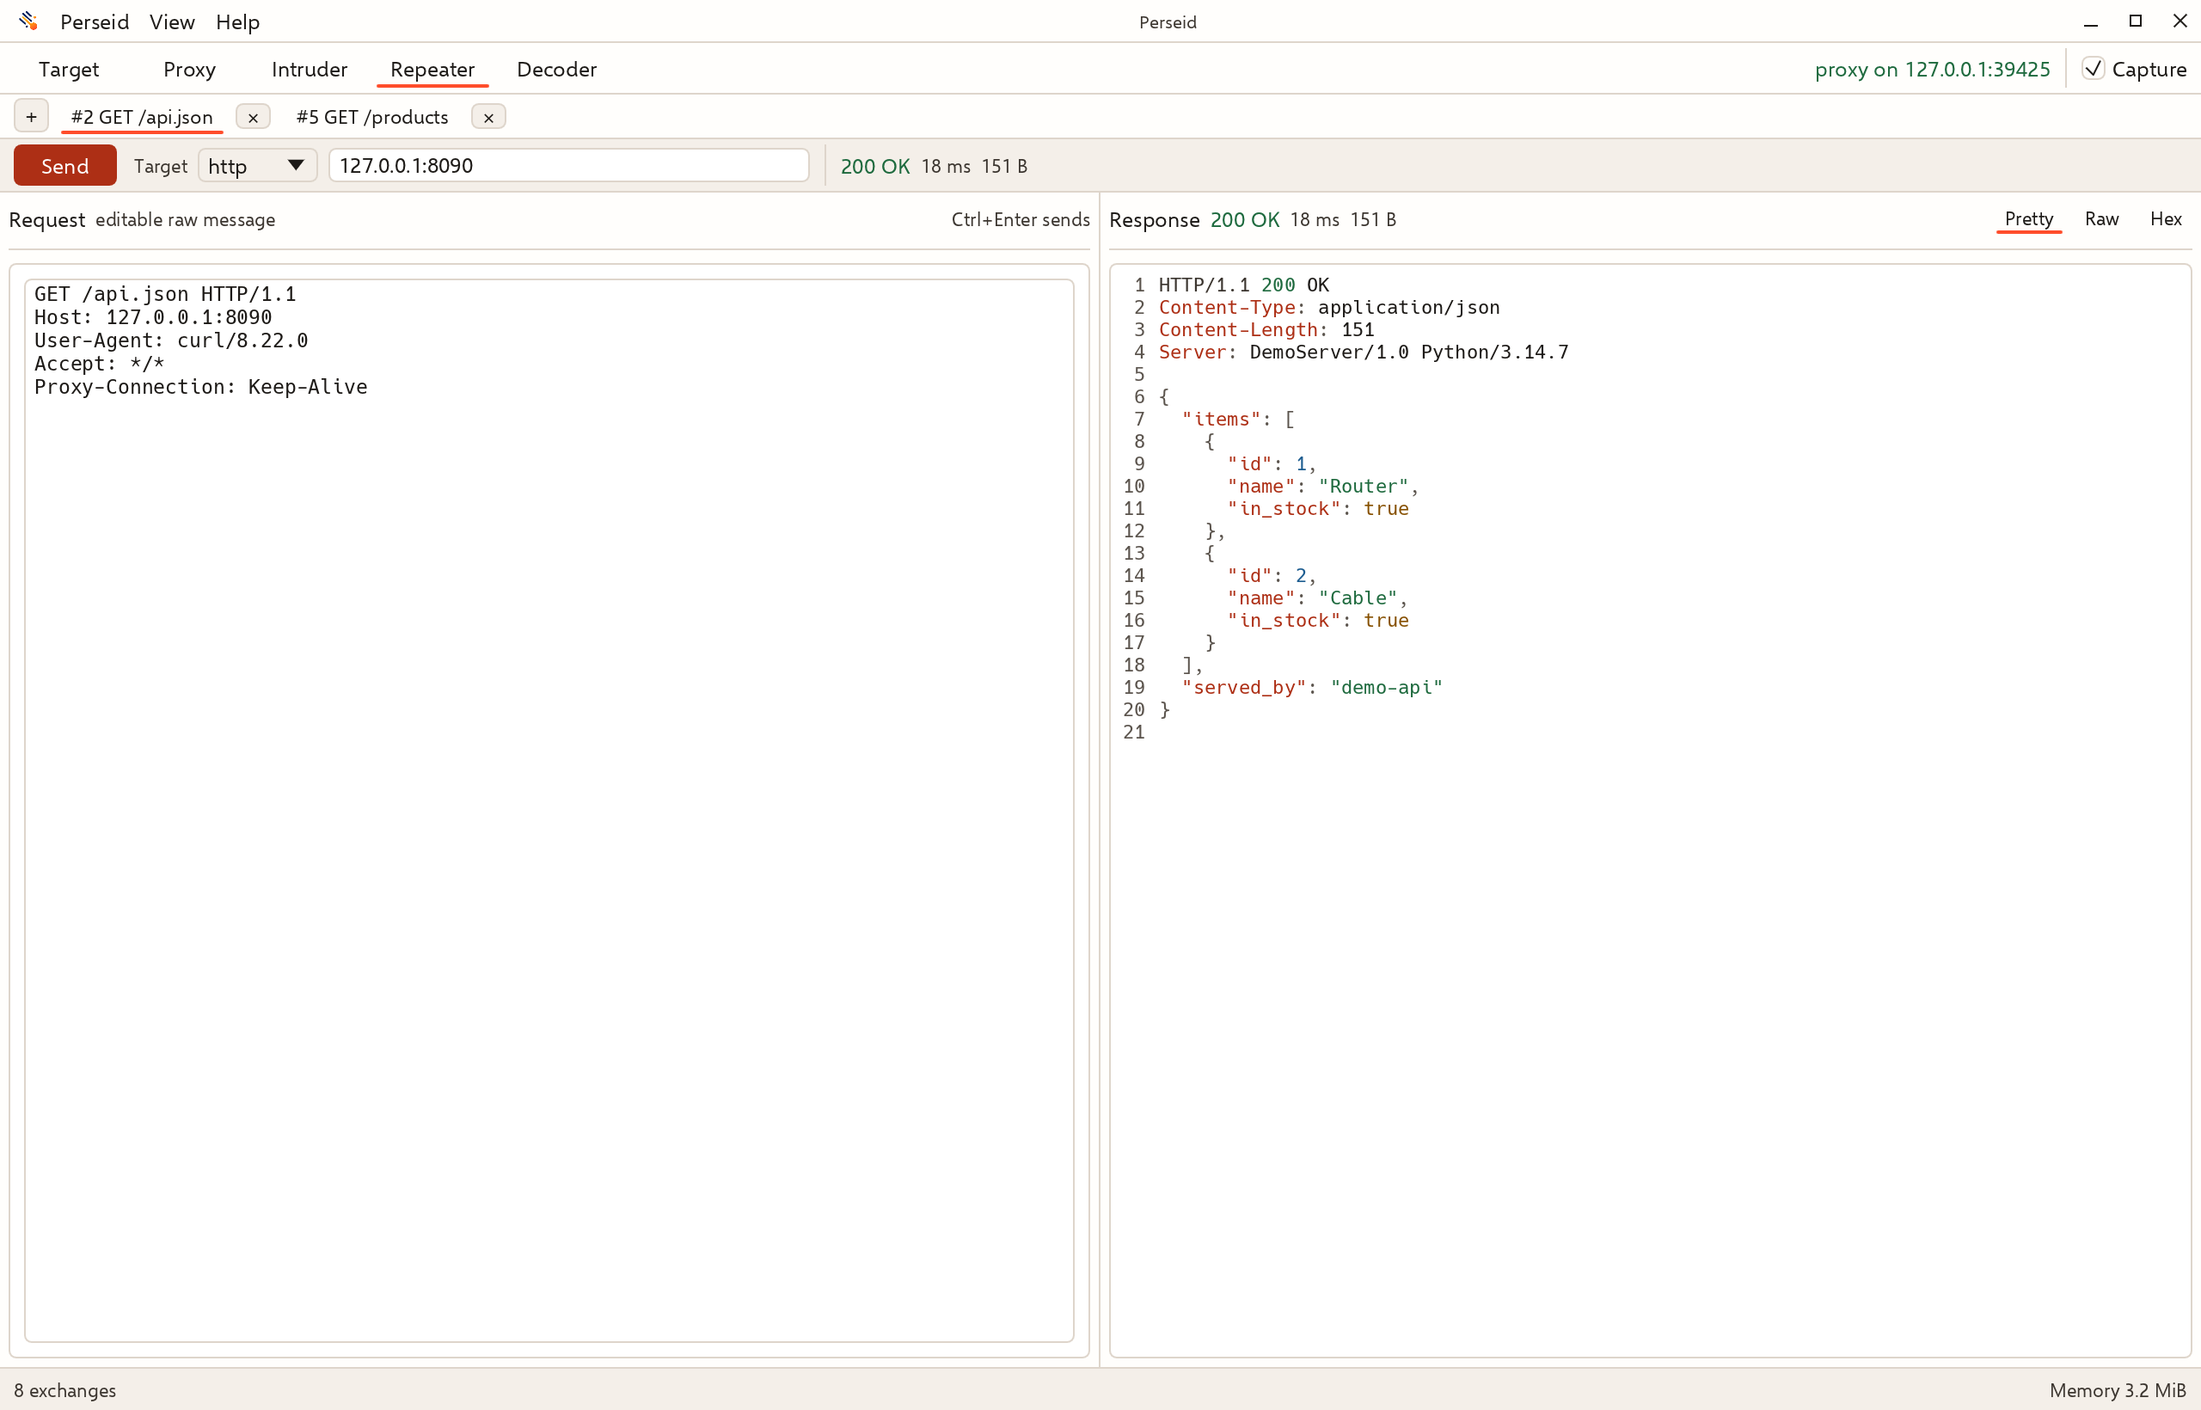
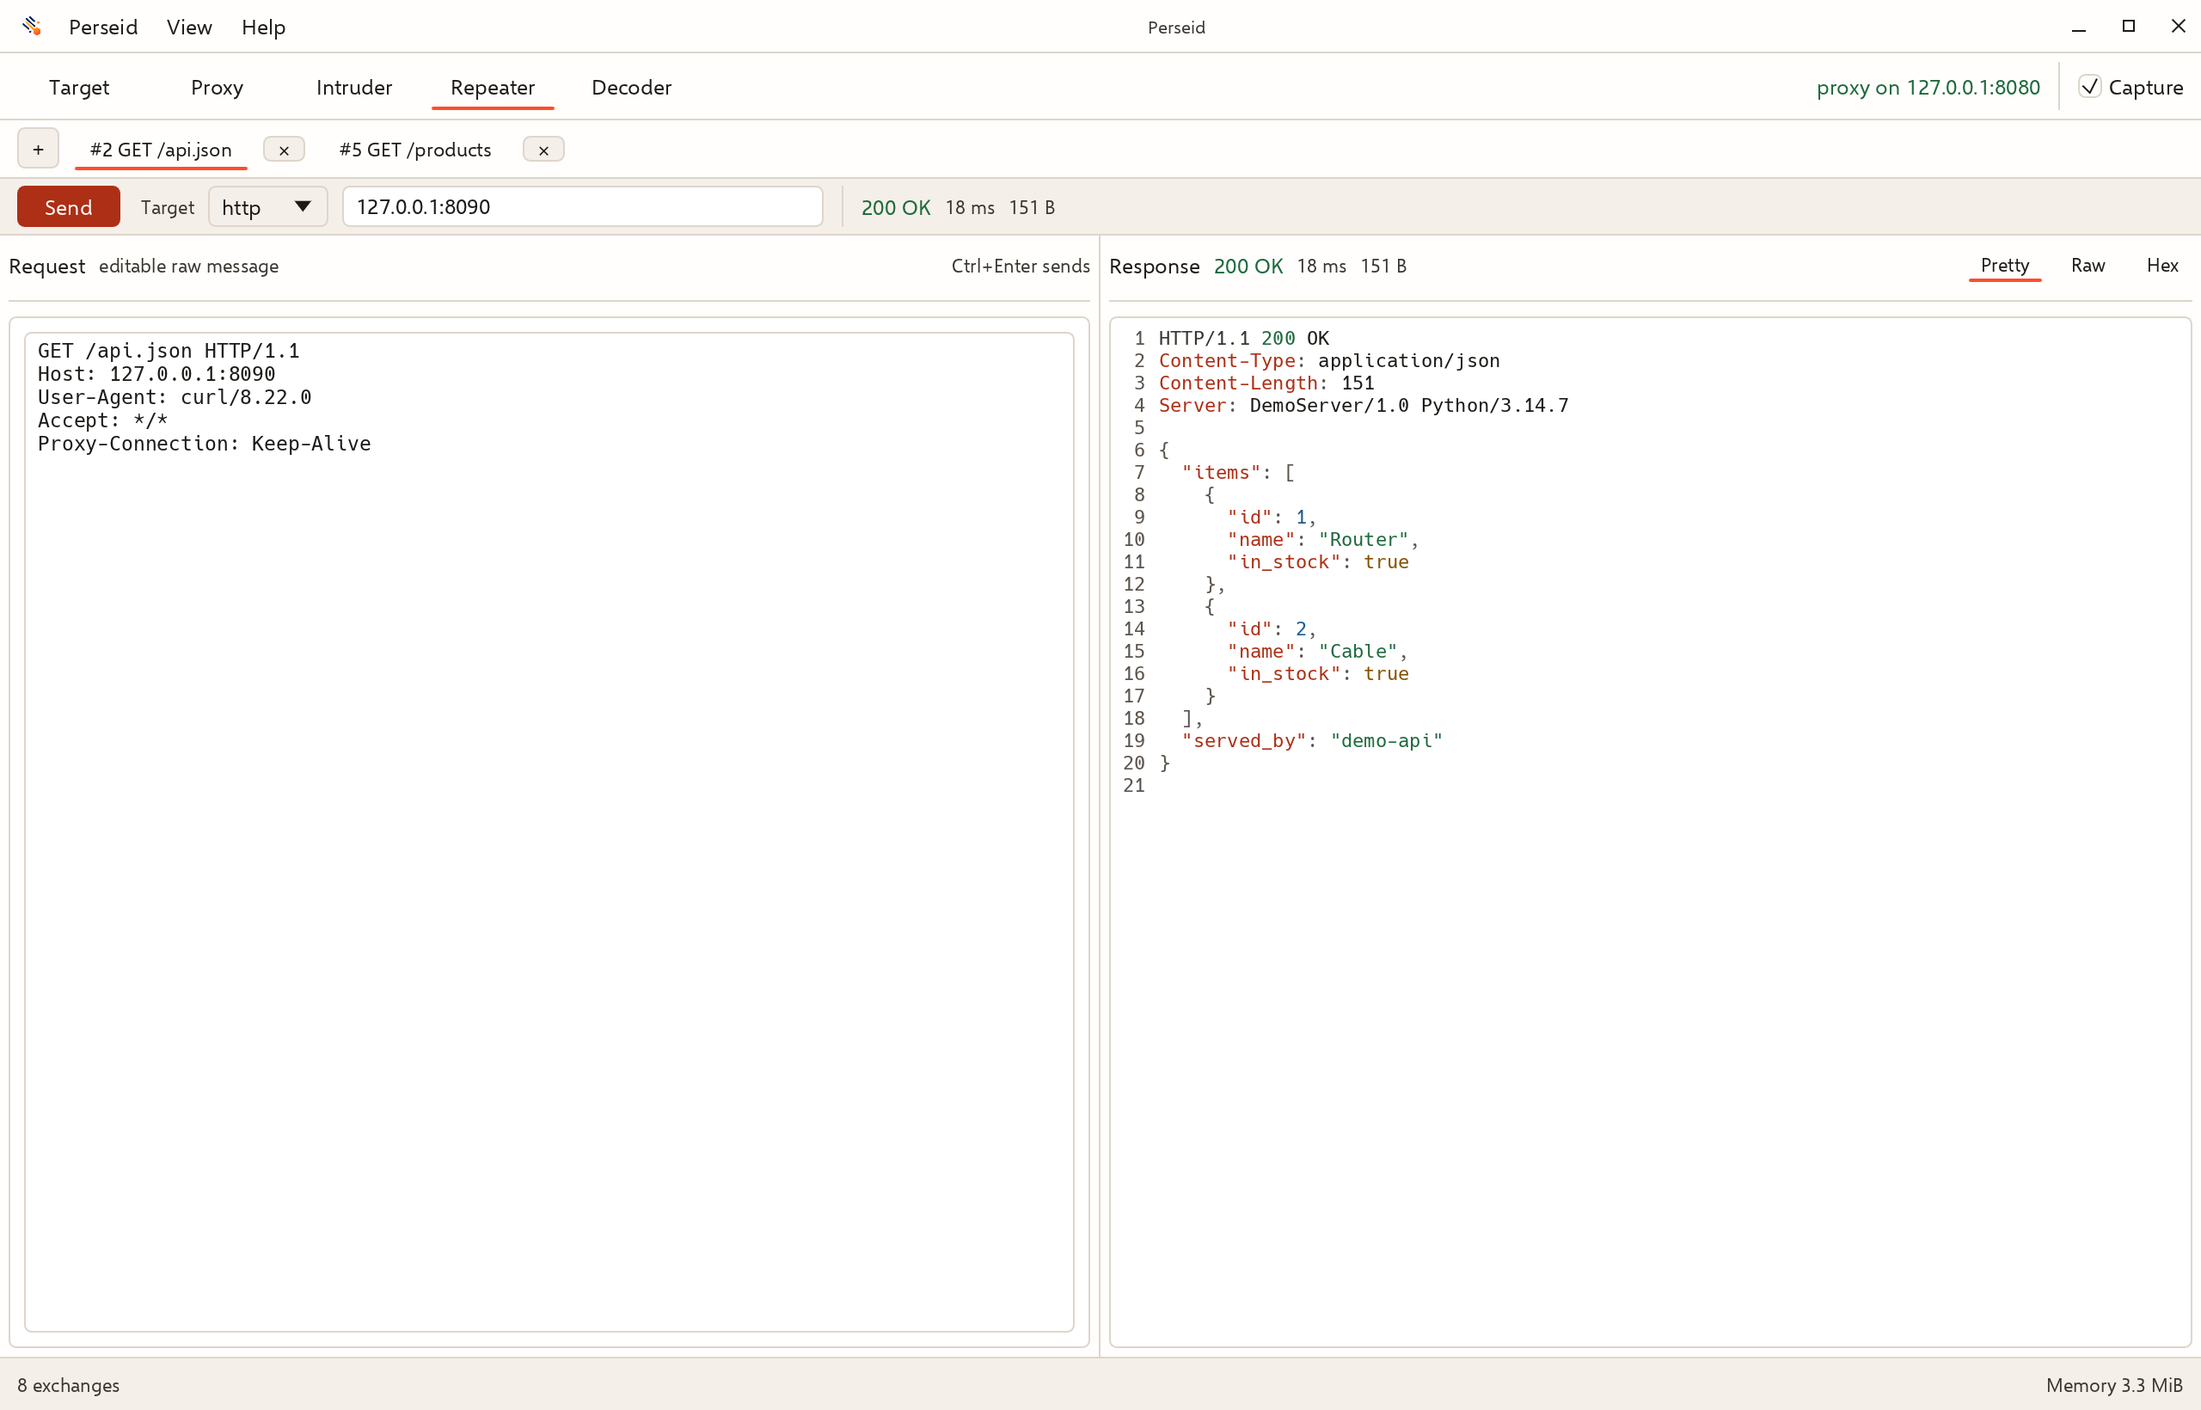
Give the UI more breathing room around controls
- Increase global button padding, control spacing, and interaction height
- Widen and heighten the main, section, and message tabs
- Add margins to toolbars, page cards, and table frames, and raise table rows
- Split Decoder panel controls so Copy and view options never clip
- Regenerate the documentation screenshots for the roomier chrome

diff --git a/crates/perseid/src/app/decoder.rs b/crates/perseid/src/app/decoder.rs
@@ -104,7 +104,7 @@ impl DecoderState {
             .frame(
                 egui::Frame::NONE
                     .fill(theme::SURFACE)
-                    .inner_margin(egui::Margin::symmetric(8, 2)),
+                    .inner_margin(egui::Margin::symmetric(10, 4)),
             )
             .show(ui, |ui| {
                 ui.horizontal(|ui| {
@@ -541,21 +541,13 @@ fn set_editor_selection(ctx: &egui::Context, editor_id: egui::Id, range: Option<
 
 fn draw_controls(ui: &mut egui::Ui, panel: &mut Panel, index: usize) -> Option<Action> {
     let mut action = None;
-    ui.spacing_mut().item_spacing = egui::vec2(6.0, 3.0);
-    ui.spacing_mut().button_padding = egui::vec2(4.0, 2.0);
-    ui.spacing_mut().interact_size.y = 22.0;
+    ui.spacing_mut().item_spacing = egui::vec2(8.0, 4.0);
+    ui.spacing_mut().button_padding = egui::vec2(6.0, 3.0);
+    ui.spacing_mut().interact_size.y = 24.0;
 
     let mut view_changed = false;
     ui.horizontal(|ui| {
         operation_chip(ui, panel.operation);
-        ui.add_space(4.0);
-        view_changed |= ui
-            .radio_value(&mut panel.view, ViewMode::Text, "Text")
-            .changed();
-        view_changed |= ui
-            .radio_value(&mut panel.view, ViewMode::Hex, "Hex")
-            .on_hover_text("Hex view is read-only; to enter bytes, decode ASCII hex in Text view")
-            .changed();
         ui.with_layout(Layout::right_to_left(Align::Center), |ui| {
             if ui
                 .small_button("Copy")
@@ -565,6 +557,15 @@ fn draw_controls(ui: &mut egui::Ui, panel: &mut Panel, index: usize) -> Option<A
                 ui.ctx().copy_text(panel.copy_value());
             }
         });
+    });
+    ui.horizontal(|ui| {
+        view_changed |= ui
+            .radio_value(&mut panel.view, ViewMode::Text, "Text")
+            .changed();
+        view_changed |= ui
+            .radio_value(&mut panel.view, ViewMode::Hex, "Hex")
+            .on_hover_text("Hex view is read-only; to enter bytes, decode ASCII hex in Text view")
+            .changed();
     });
     if view_changed {
         panel.selection = None;
@@ -672,7 +673,7 @@ fn codec_combo(
         .selected_text(title)
         .show_ui(ui, |ui| {
             ui.set_min_width(190.0);
-            ui.spacing_mut().item_spacing.y = 2.0;
+            ui.spacing_mut().item_spacing.y = 3.0;
             ui.spacing_mut().interact_size.y = 24.0;
             let menu_height = (ui.ctx().viewport_rect().height() * 0.5).clamp(180.0, 360.0);
             egui::ScrollArea::vertical()
@@ -707,7 +708,7 @@ fn hash_combo(
         .selected_text("Hash…")
         .show_ui(ui, |ui| {
             ui.set_min_width(210.0);
-            ui.spacing_mut().item_spacing.y = 2.0;
+            ui.spacing_mut().item_spacing.y = 3.0;
             ui.spacing_mut().interact_size.y = 24.0;
             let menu_height = (ui.ctx().viewport_rect().height() * 0.5).clamp(180.0, 360.0);
             egui::ScrollArea::vertical()
@@ -739,7 +740,7 @@ fn operation_chip(ui: &mut egui::Ui, operation: Option<engine::Transform>) {
         .fill(color.gamma_multiply(0.10))
         .stroke(Stroke::new(1.0, color.gamma_multiply(0.45)))
         .corner_radius(8.0)
-        .inner_margin(egui::Margin::symmetric(6, 1))
+        .inner_margin(egui::Margin::symmetric(8, 2))
         .show(ui, |ui| {
             ui.label(RichText::new(label).size(10.5).strong().color(color));
         });

diff --git a/crates/perseid/src/app.rs b/crates/perseid/src/app.rs
@@ -239,7 +239,7 @@ struct DetailCache {
 
 /// Draw one custom title-bar window control.
 fn window_control(ui: &mut egui::Ui, control: WindowControl, maximized: bool) -> egui::Response {
-    let (rect, response) = ui.allocate_exact_size(egui::vec2(24.0, 20.0), egui::Sense::click());
+    let (rect, response) = ui.allocate_exact_size(egui::vec2(26.0, 22.0), egui::Sense::click());
     let hovered = response.hovered();
     let (fill, color) = match control {
         WindowControl::Close if hovered => (theme::RED, Color32::WHITE),
@@ -825,8 +825,8 @@ impl PerseidApp {
             .input(|input| input.viewport().maximized.unwrap_or(false));
 
         ui.horizontal(|ui| {
-            ui.spacing_mut().item_spacing = egui::vec2(2.0, 2.0);
-            ui.spacing_mut().button_padding = egui::vec2(5.0, 1.0);
+            ui.spacing_mut().item_spacing = egui::vec2(3.0, 2.0);
+            ui.spacing_mut().button_padding = egui::vec2(7.0, 2.0);
 
             if let Some(mark) = &self.mark {
                 let response = ui
@@ -910,8 +910,8 @@ impl PerseidApp {
 
             // The empty part of the title bar drags the window, like Burp's
             // menu bar. Reserve room on the right for the window controls.
-            let drag_height = ui.spacing().interact_size.y.max(18.0);
-            let drag_width = (ui.available_width() - 3.0 * 24.0 - 8.0).max(0.0);
+            let drag_height = ui.spacing().interact_size.y.max(20.0);
+            let drag_width = (ui.available_width() - 3.0 * 26.0 - 10.0).max(0.0);
             let (drag_rect, drag_response) = ui.allocate_exact_size(
                 egui::vec2(drag_width, drag_height),
                 egui::Sense::click_and_drag(),
@@ -1203,10 +1203,10 @@ impl eframe::App for PerseidApp {
                 egui::Frame::NONE
                     .fill(theme::SURFACE)
                     .inner_margin(egui::Margin {
-                        left: 8,
+                        left: 10,
                         right: 0,
-                        top: 2,
-                        bottom: 2,
+                        top: 3,
+                        bottom: 3,
                     }),
             )
             .show(ui, |ui| self.title_bar(ui));
@@ -1215,7 +1215,7 @@ impl eframe::App for PerseidApp {
             .frame(
                 egui::Frame::NONE
                     .fill(theme::SURFACE)
-                    .inner_margin(egui::Margin::symmetric(8, 3)),
+                    .inner_margin(egui::Margin::symmetric(10, 5)),
             )
             .show(ui, |ui| self.main_tabs(ui));
 
@@ -1223,7 +1223,7 @@ impl eframe::App for PerseidApp {
             .frame(
                 egui::Frame::NONE
                     .fill(theme::SURFACE_ALT)
-                    .inner_margin(egui::Margin::symmetric(8, 2)),
+                    .inner_margin(egui::Margin::symmetric(10, 3)),
             )
             .show(ui, |ui| self.status_bar(ui));
 

diff --git a/crates/perseid/src/app/widgets.rs b/crates/perseid/src/app/widgets.rs
@@ -15,25 +15,25 @@ struct TabStyle {
 
 const MAIN_TAB_STYLE: TabStyle = TabStyle {
     font_size: 12.5,
-    height: 23.0,
-    min_width: 64.0,
-    padding_x: 9.0,
+    height: 28.0,
+    min_width: 72.0,
+    padding_x: 12.0,
     corner_radius: 3,
 };
 
 const SECTION_TAB_STYLE: TabStyle = TabStyle {
     font_size: 11.5,
-    height: 21.0,
+    height: 25.0,
     min_width: 0.0,
-    padding_x: 7.0,
+    padding_x: 10.0,
     corner_radius: 3,
 };
 
 const MESSAGE_TAB_STYLE: TabStyle = TabStyle {
     font_size: 11.0,
-    height: 18.0,
+    height: 20.0,
     min_width: 0.0,
-    padding_x: 6.0,
+    padding_x: 8.0,
     corner_radius: 3,
 };
 
@@ -63,7 +63,7 @@ pub(super) fn section_bar(ui: &mut egui::Ui, id_salt: &str, add_tabs: impl FnOnc
         .frame(
             egui::Frame::NONE
                 .fill(theme::SURFACE)
-                .inner_margin(egui::Margin::symmetric(8, 2)),
+                .inner_margin(egui::Margin::symmetric(10, 4)),
         )
         .show(ui, |ui| {
             ui.horizontal(add_tabs);
@@ -172,7 +172,7 @@ pub(super) fn table_frame<R>(
     add_contents: impl FnOnce(&mut egui::Ui) -> R,
 ) -> R {
     egui::Frame::NONE
-        .inner_margin(egui::Margin::symmetric(8, 0))
+        .inner_margin(egui::Margin::symmetric(10, 0))
         .show(ui, add_contents)
         .inner
 }
@@ -180,7 +180,7 @@ pub(super) fn table_frame<R>(
 /// Add the standard padding around card-based page content.
 pub(super) fn page_pad<R>(ui: &mut egui::Ui, add_contents: impl FnOnce(&mut egui::Ui) -> R) -> R {
     egui::Frame::NONE
-        .inner_margin(egui::Margin::symmetric(8, 6))
+        .inner_margin(egui::Margin::symmetric(10, 8))
         .show(ui, add_contents)
         .inner
 }
@@ -190,7 +190,7 @@ pub(super) fn card<R>(ui: &mut egui::Ui, add_contents: impl FnOnce(&mut egui::Ui
         .fill(theme::SURFACE)
         .stroke(Stroke::new(1.0, theme::BORDER))
         .corner_radius(4.0)
-        .inner_margin(egui::Margin::same(8))
+        .inner_margin(egui::Margin::same(10))
         .show(ui, |ui| {
             ui.set_min_width(ui.available_width());
             add_contents(ui)

diff --git a/crates/perseid/src/app/intruder.rs b/crates/perseid/src/app/intruder.rs
@@ -833,7 +833,7 @@ impl PerseidApp {
             .frame(
                 egui::Frame::NONE
                     .fill(theme::SURFACE_ALT)
-                    .inner_margin(egui::Margin::symmetric(8, 3)),
+                    .inner_margin(egui::Margin::symmetric(10, 4)),
             )
             .show(ui, |ui| {
                 let state = &mut self.intruder;
@@ -968,7 +968,7 @@ impl PerseidApp {
             .frame(
                 egui::Frame::NONE
                     .fill(theme::SURFACE)
-                    .inner_margin(egui::Margin::symmetric(8, 3)),
+                    .inner_margin(egui::Margin::symmetric(10, 4)),
             )
             .show(ui, |ui| {
                 let state = &mut self.intruder;
@@ -1346,7 +1346,7 @@ impl PerseidApp {
                     .frame(
                         egui::Frame::NONE
                             .fill(theme::SURFACE_ALT)
-                            .inner_margin(egui::Margin::symmetric(6, 2)),
+                            .inner_margin(egui::Margin::symmetric(8, 3)),
                     )
                     .show(ui, |ui| {
                         let state = &mut self.intruder;
@@ -1447,7 +1447,7 @@ impl PerseidApp {
                 .column(Column::remainder().at_least(64.0));
 
             table
-                .header(18.0, |mut header| {
+                .header(20.0, |mut header| {
                     for title in ["#", "Payloads", "Status", "Length", "Time"] {
                         header.col(|ui| {
                             ui.label(RichText::new(title).strong().small().color(theme::TEXT));
@@ -1455,7 +1455,7 @@ impl PerseidApp {
                     }
                 })
                 .body(|body| {
-                    body.rows(18.0, rows, |mut row| {
+                    body.rows(20.0, rows, |mut row| {
                         let result = &state.results[row.index()];
                         row.set_selected(state.selected == Some(result.sequence));
                         row.col(|ui| {

diff --git a/crates/perseid/src/app/proxy.rs b/crates/perseid/src/app/proxy.rs
@@ -81,7 +81,7 @@ impl PerseidApp {
     fn http_history_view(&mut self, ui: &mut egui::Ui) {
         egui::Frame::NONE
             .fill(theme::SURFACE)
-            .inner_margin(egui::Margin::symmetric(8, 3))
+            .inner_margin(egui::Margin::symmetric(10, 4))
             .show(ui, |ui| self.history_toolbar(ui));
         self.rebuild_visible();
         // The filter or scope can hide the selected exchange. Do not leave its
@@ -99,7 +99,7 @@ impl PerseidApp {
             .frame(
                 egui::Frame::NONE
                     .fill(theme::SURFACE)
-                    .inner_margin(egui::Margin::same(4)),
+                    .inner_margin(egui::Margin::same(6)),
             )
             .show(ui, |ui| self.detail_panel(ui));
 
@@ -234,7 +234,7 @@ impl PerseidApp {
             }
 
             table
-                .header(18.0, |mut header| {
+                .header(20.0, |mut header| {
                     for title in [
                         "#",
                         "Method",
@@ -250,7 +250,7 @@ impl PerseidApp {
                     }
                 })
                 .body(|body| {
-                    body.rows(16.0, rows, |mut row| {
+                    body.rows(18.0, rows, |mut row| {
                         let index = row.index();
                         let id = self.visible[index];
                         let Some(item) = self.history.get(id) else {

diff --git a/crates/perseid/src/theme.rs b/crates/perseid/src/theme.rs
@@ -47,12 +47,13 @@ pub fn apply(ctx: &egui::Context) {
     // Burp-style dense text benefits more from crisp stems and dark ink.
     style.visuals.text_options.subpixel_binning = false;
     style.visuals.text_options.font_hinting = true;
-    // Burp keeps its chrome compact so more of the request and response stay
-    // visible. These are deliberately smaller than egui's defaults.
-    style.spacing.item_spacing = egui::vec2(6.0, 3.0);
-    style.spacing.button_padding = egui::vec2(6.0, 2.0);
-    style.spacing.interact_size.y = 20.0;
-    style.spacing.menu_margin = egui::Margin::same(4);
+    // Burp-style chrome stays compact vertically, but controls need enough
+    // padding and separation to scan and click comfortably. These are slightly
+    // roomier than egui's dense defaults without wasting editor space.
+    style.spacing.item_spacing = egui::vec2(8.0, 4.0);
+    style.spacing.button_padding = egui::vec2(8.0, 4.0);
+    style.spacing.interact_size.y = 24.0;
+    style.spacing.menu_margin = egui::Margin::same(5);
     style
         .text_styles
         .insert(TextStyle::Heading, FontId::proportional(16.0));

diff --git a/crates/perseid/src/app/intercept.rs b/crates/perseid/src/app/intercept.rs
@@ -226,7 +226,7 @@ impl PerseidApp {
 
         egui::Frame::NONE
             .fill(theme::SURFACE)
-            .inner_margin(egui::Margin::symmetric(8, 3))
+            .inner_margin(egui::Margin::symmetric(10, 4))
             .show(ui, |ui| {
                 // Burp's Intercept tab has one master on/off control. Requests
                 // are held by default; responses are a separate, opt-in rule
@@ -442,7 +442,7 @@ impl PerseidApp {
             }
 
             table
-                .header(18.0, |mut header| {
+                .header(20.0, |mut header| {
                     for title in [
                         "Time",
                         "Type",
@@ -458,7 +458,7 @@ impl PerseidApp {
                     }
                 })
                 .body(|body| {
-                    body.rows(18.0, rows, |mut row| {
+                    body.rows(20.0, rows, |mut row| {
                         let index = row.index();
                         let Some(entry) = queue.get(index) else {
                             return;

diff --git a/crates/perseid/src/app/repeater.rs b/crates/perseid/src/app/repeater.rs
@@ -275,7 +275,7 @@ impl PerseidApp {
             .frame(
                 egui::Frame::NONE
                     .fill(theme::SURFACE)
-                    .inner_margin(egui::Margin::symmetric(8, 2)),
+                    .inner_margin(egui::Margin::symmetric(10, 4)),
             )
             .show(ui, |ui| {
                 ui.horizontal(|ui| {
@@ -357,7 +357,7 @@ impl PerseidApp {
             .frame(
                 egui::Frame::NONE
                     .fill(theme::SURFACE_ALT)
-                    .inner_margin(egui::Margin::symmetric(8, 3)),
+                    .inner_margin(egui::Margin::symmetric(10, 4)),
             )
             .show(ui, |ui| {
                 let tab = &mut self.repeater_tabs[index];
